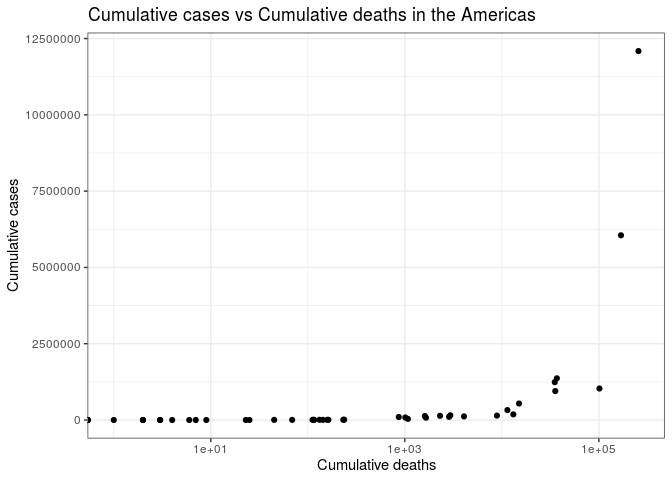
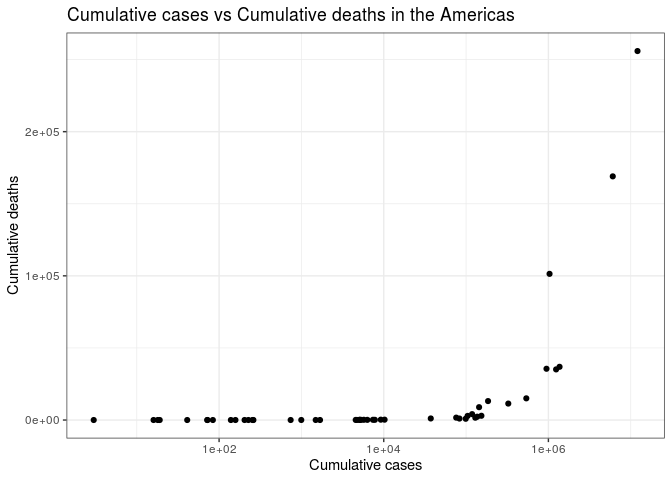
Aleksandra's final comments.

diff --git a/finalproject.md b/finalproject.md
@@ -181,16 +181,14 @@ seems to be a pattern.
 
 covid_america %>%
   ggplot(
-    mapping = aes(x= deaths_cum,
-                  y = cases_cum)) +
+    mapping = aes(y = deaths_cum,
+                  x = cases_cum)) +
   theme_bw()+
-  labs(y="Cumulative cases", x="Cumulative deaths")+
+  labs(x="Cumulative cases", y="Cumulative deaths")+
   ggtitle("Cumulative cases vs Cumulative deaths in the Americas")+
   scale_x_log10()+
     geom_point()
 ```
-
-    ## Warning: Transformation introduced infinite values in continuous x-axis
 
 ![](finalproject_files/figure-gfm/deaths_cum,%20cases_cum-1.png)<!-- -->
 
@@ -237,26 +235,24 @@ Covid-19 mortality across the globe.
 
 To do this, I started with the initial step of measuring Covid-19
 mortality. In this paper, Covid-19 mortality is measured as the
-proportion of cumulative deaths when measured against cumulative cases.
-Of course one must keep in mind the limitations, when measuring and
-defining these two variables as different governments around the world
-report data based on different definitions.
+proportion of cumulative deaths when measured against cumulative cases
+per million. Of course one must keep in mind the limitations, when
+measuring and defining these two variables as different governments
+around the world report data based on different definitions.
 
 After plotting the two variables against each other, a clearer pattern
 emerges. If mortality is measured as the slope of the graph, where the x
 value is the number of cumulative cases and the y value is the number of
-cumulative deaths, there seems to be a linear relationship until a
-certain point (around 1,000,000 and 1,500,000 cumulative cases), where
-mortality plateaus. There are definitely too few countries with high
-cumulative death numbers to trust this pattern. Therefore, a similar
-process has to be repeated, where the outlier has to be filtered out
-(after creating a separate variable, we find the outlying country with
-cumulative deaths greater than 7,500,000 is Mexico). Now plotting the
-new variable that does not entail Mexico, the relationship is obviously
-linear. We learn that, in the Americas, cumulative deaths are
-proportionally related to cumulative cases. From here further research
-discussing the implications and related policies from governments could
-be done.
+cumulative deaths, there seems to somewhat of a linear relationship.
+However, there are definitely too few countries with high cumulative
+death numbers to trust this pattern. Therefore, a similar process has to
+be repeated, where the outlier has to be filtered out (after creating a
+separate variable, we find the outlying country with cumulative deaths
+greater than 7,500,000 is Mexico). Now plotting the new variable that
+does not entail Mexico, there is a lot stronger linear relationship. We
+learn that, in the Americas, cumulative deaths are proportionally
+related to cumulative cases. From here further research discussing the
+implications and related policies from governments could be done.
 
 ``` r
 # Plot again cumulative cases and cumulative deaths with the new data set
@@ -321,7 +317,7 @@ female population that is 65+ and the male population that is 65+. Then,
 we must look at the share of the population that is 65+ against the
 total population of a country. This is saved into a new variable too.
 Here we also define mortality as cumulative deaths divided by cumulative
-cases.
+cases per million.
 
 ``` r
 # Create a new variable for population over 65
@@ -363,13 +359,13 @@ new_covid_america <- transform(new_covid_america,
 
 Now we can finally plot Covid-19 mortality against the share of
 population that is 65 or older. While the uncertainty is quite high,
-there seems to be a negative relationship between the two variables.
+there seems to be a negligible relationship between the two variables.
 This is quite surprising as our initial hypothesis stated that countries
 that have a larger proportion of citizens aged 65 or higher would see
 higher Covid-19 mortality rates. The data suggests that as the share of
-population aged 65 or older increases, Covid-19 mortality falls. This
-might be due to the small dataset or due to powerful confounding
-variables.
+population aged 65 or older increases, Covid-19 mortality doesn’t
+change. This might be due to the small dataset or due to powerful
+confounding variables.
 
 ``` r
   new_covid_america_without_outlier %>%
@@ -457,19 +453,21 @@ north_america <- new_covid_america %>% filter (region == "North America")
 It makes sense to further inspect mortality rates, when dividing the
 dataset in three tiers:
 
-  - Tier 1: older\_share \< 10
+  - Tier 1: share of population aged 65 or older is less than 10%
 
-  - Tier 2: 10 \<= older\_share \>= 15
+  - Tier 2: share of population aged 65 or older is larger than 10% but
+    less than 15%
 
-  - Tier 3: older\_share \> 15
+  - Tier 3: share of population aged 65 or older is larger than 15%
 
 We see that most countries in the Americas fit within the first tier,
 which again proves that most of the countries in the Americas have young
-populations. Tier 2 and tier 3 has too few data points to draw a
-conclusion and tier 1 seems to counterintuitively state that countries
-with older populations have lower mortality rates. This could have
-multiple explanations, but most likely is affected by confounding
-variables such as income levels.
+populations. Tier 2 and tier 3 have too few data points to draw a
+conclusion and tier 1 seems to show no significant relationship either.
+This could have multiple explanations, but most likely is affected by
+confounding variables such as income levels. Countries with larger
+population shares of people aged 65+ are usually wealthier countries
+with better healthcare systems.
 
 ``` r
 first_new_covid_america_without_outlier <- new_covid_america_without_outlier %>% filter (older_share < 10)
@@ -548,11 +546,11 @@ than the age of the population.
 
 When inspecting the mortality density graph, it is surprising to see
 that countries classified as North America, which are often considered
-to be wealthier, with better health care systems, have much higher
-mortality rates. Again, one must be careful to look for simple
-explanations as the dataset consists of only two countries. In the case
-of North America, a study inspecting Covid-19 mortality rates state by
-state would prove to be more conclusive.
+to be wealthier, with better health care systems, have higher mortality
+rates. Again, one must be careful to look for simple explanations as the
+dataset consists of only two countries. In the case of North America, a
+study inspecting Covid-19 mortality rates state by state would prove to
+be more conclusive.
 
 Inspecting Latin America & Caribbean shows that the vast majority of
 countries have mortality rates below 0.35 / Million. However, Bolivia
@@ -638,13 +636,14 @@ Venezuelans returned from Brazil daily via the border at Pacaraima
 
 The hypothesis would suggest that countries with a higher share of their
 population consisting of migrants would have respectively higher
-Covid-19 mortality rates. Superimposing the two density plots onto each
-other, we see a strong correlation in North America and a weaker (but
-not non-existing) correlation in Latin America & Caribbean. Creating
-graphs of both Mortality per million vs Population density and Mortality
-per million vs Migrant share of the population shows to be some of the
-strongest correlation revealed in this research paper, when it comes to
-the Ameriacs. This could be explored in further research papers.
+Covid-19 mortality rates. Creating graphs of both Mortality per million
+vs Population density and Mortality per million vs Migrant share of the
+population shows to be some of the strongest correlations revealed in
+this research paper, when it comes to the Americas. Often migrant
+population live in denser areas, which are already more prone to a
+deadlier spread of infections. Considerable proof to this statement is
+visible in both graphs. This could be explored in further research
+papers.
 
 ``` r
 southamerica <- new_covid_america %>% filter (region == "Latin America & Caribbean")
@@ -794,8 +793,7 @@ summary(new_covid_america$CumulativeCases)
 However, when looking at mortality, the outliers are not as obvious as
 with cumulative cases. Some interesting further research exploring this
 relationship could also be done. The difference between the median and
-the mean is a lot smaller. The histogram shows that there is a more
-balanced distribution between 2% mortality and 4% mortality.
+the mean is a lot smaller.
 
 ``` r
 mean(new_covid_america$Mortality)
